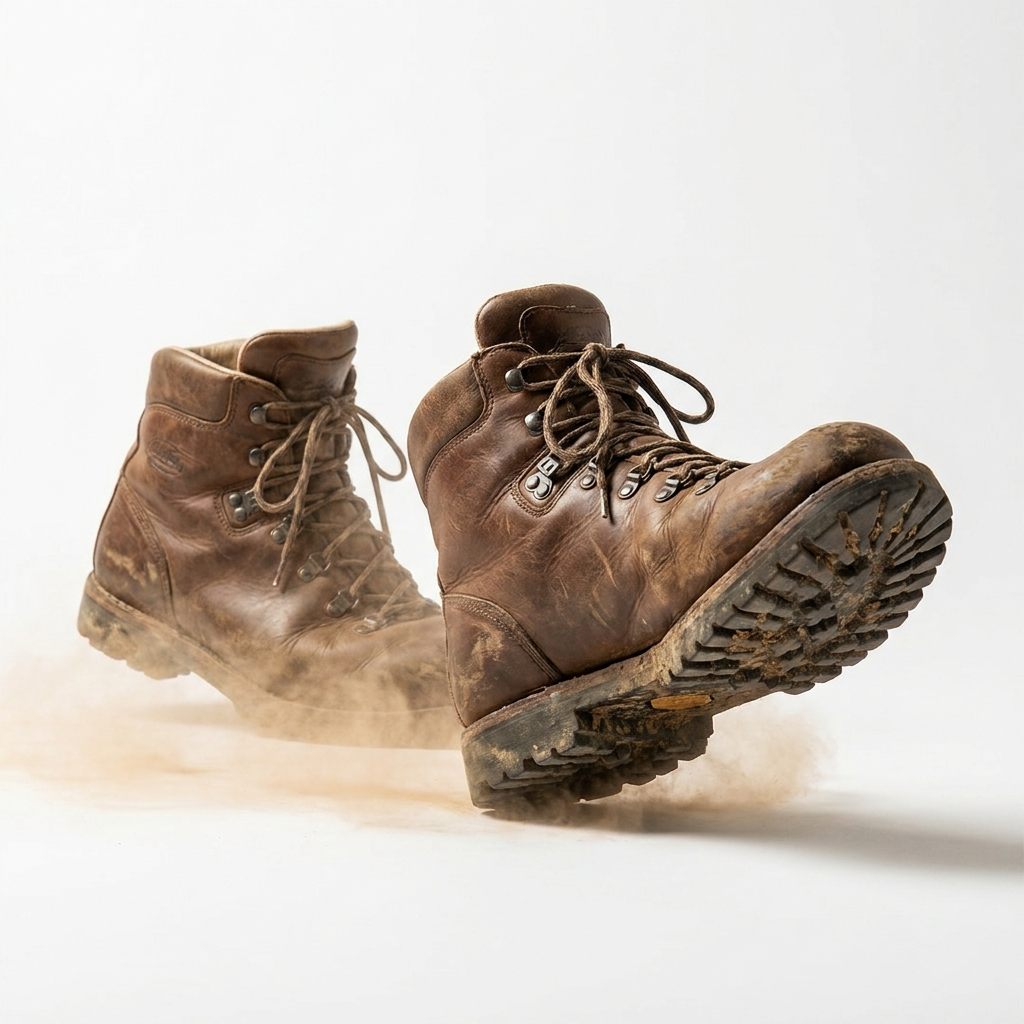
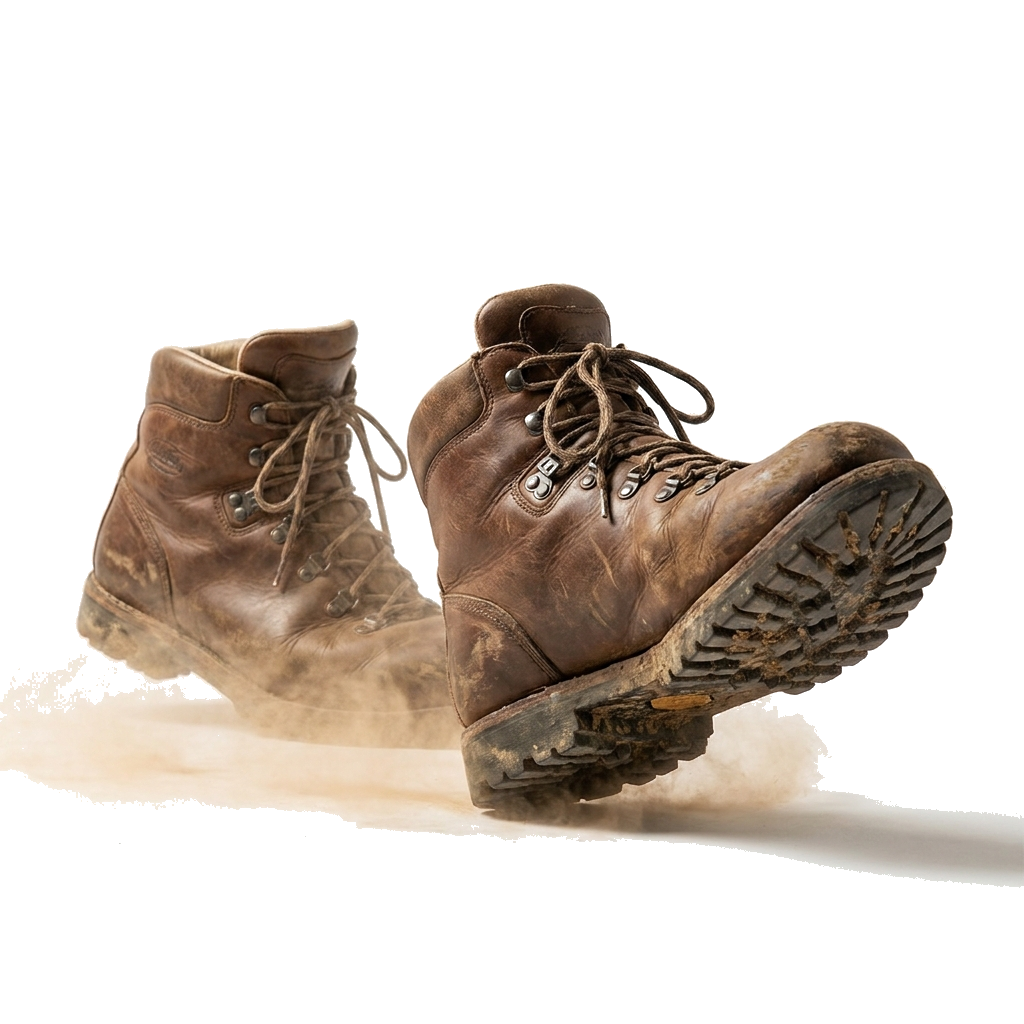
Drop hero boots down and clean the PNG whitepoint
Moves the boots from top: 110/80 to top: 210/180 so they sit lower in the
hero next to the headline. Replaces hiking-boots-v2.png with a version
whose near-white pixels are clamped to true (255,255,255), so the
multiply blend no longer leaves a faint rectangular halo around the
boots. Dust cloud and contact shadow are preserved. Cache-bust to ?v=2.

https://claude.ai/code/session_01GgvrzpWmDgxHPsL2up3mK2

diff --git a/V3Hero.jsx b/V3Hero.jsx
@@ -9,7 +9,7 @@ function V3Hero() {
       <div style={{ position: "absolute", inset: 0, background: "repeating-linear-gradient(45deg, rgba(20,16,12,0.06) 0 1.5px, transparent 1.5px 6px)", mixBlendMode: "multiply", pointerEvents: "none" }} />
 
       {/* FLOATING HIKING BOOTS — scales with viewport, sits behind copy on mobile */}
-      <img src="assets/hiking-boots-v2.png?v=1" alt="" style={{ position: "absolute", right: isMobile ? "-20vw" : -40, top: isMobile ? 80 : 110, width: "min(720px, 92vw)", maxWidth: 720, mixBlendMode: "multiply", filter: "contrast(1.05) saturate(0.9)", transform: "rotate(-4deg)", pointerEvents: "none", zIndex: 1, opacity: isMobile ? 0.55 : 1 }} />
+      <img src="assets/hiking-boots-v2.png?v=2" alt="" style={{ position: "absolute", right: isMobile ? "-20vw" : -40, top: isMobile ? 180 : 210, width: "min(720px, 92vw)", maxWidth: 720, mixBlendMode: "multiply", filter: "contrast(1.05) saturate(0.9)", transform: "rotate(-4deg)", pointerEvents: "none", zIndex: 1, opacity: isMobile ? 0.55 : 1 }} />
 
       {/* MAIN PHRASE */}
       <div style={{ position: "relative", padding: "clamp(48px, 8vw, 80px) clamp(20px, 5vw, 64px)", zIndex: 3 }}>
